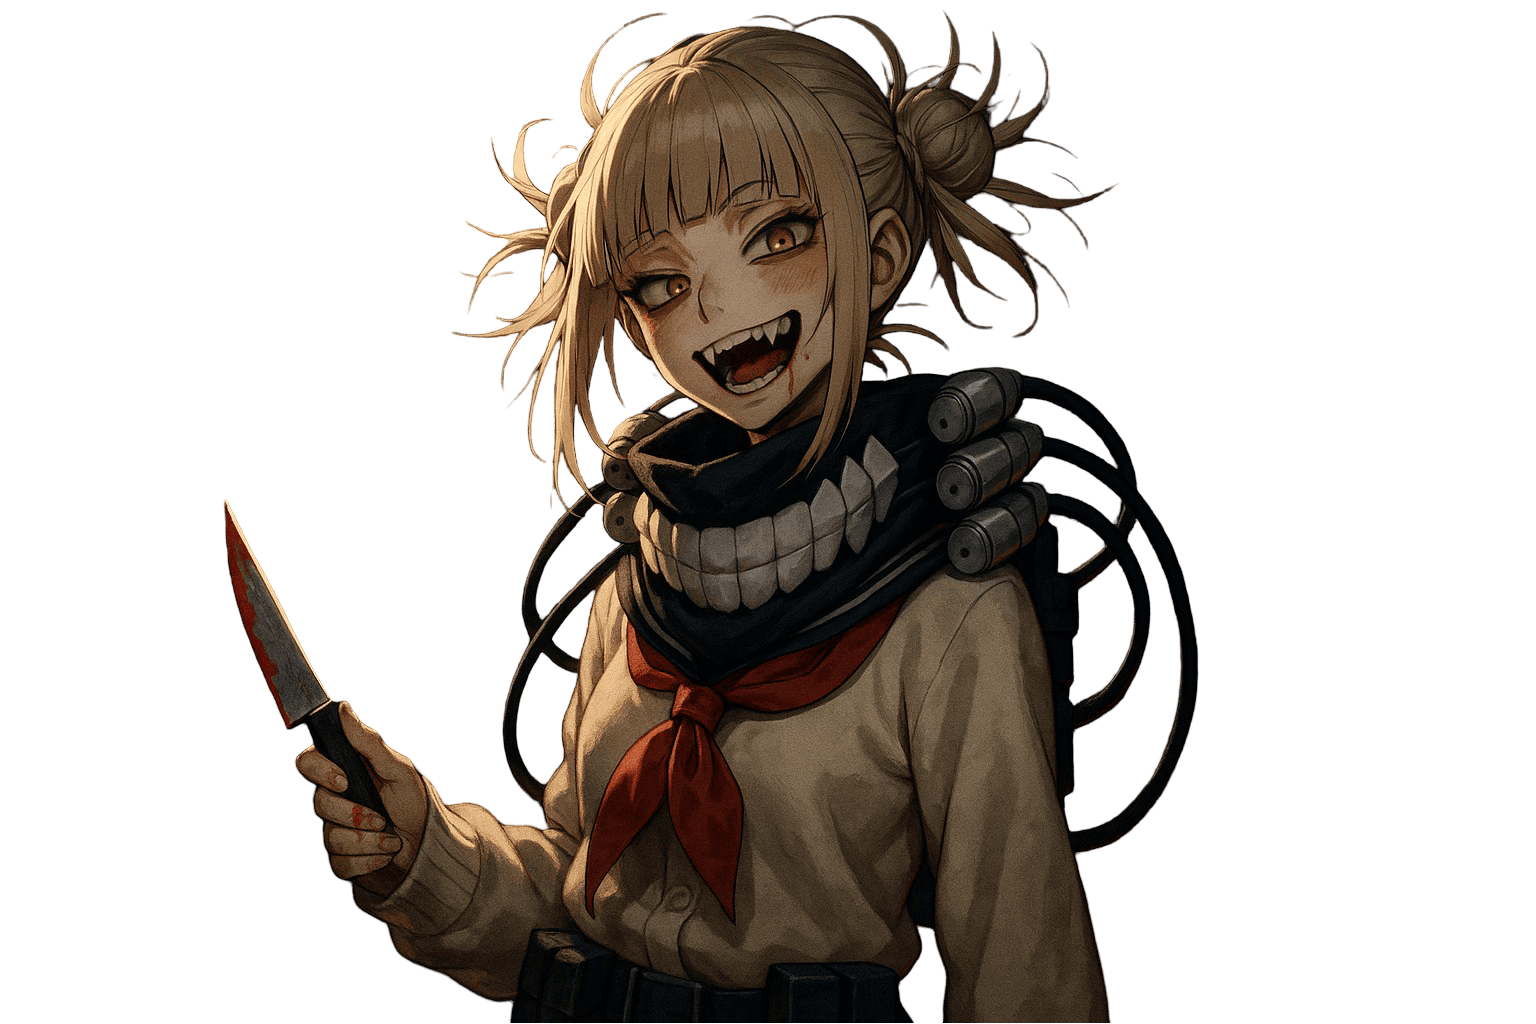
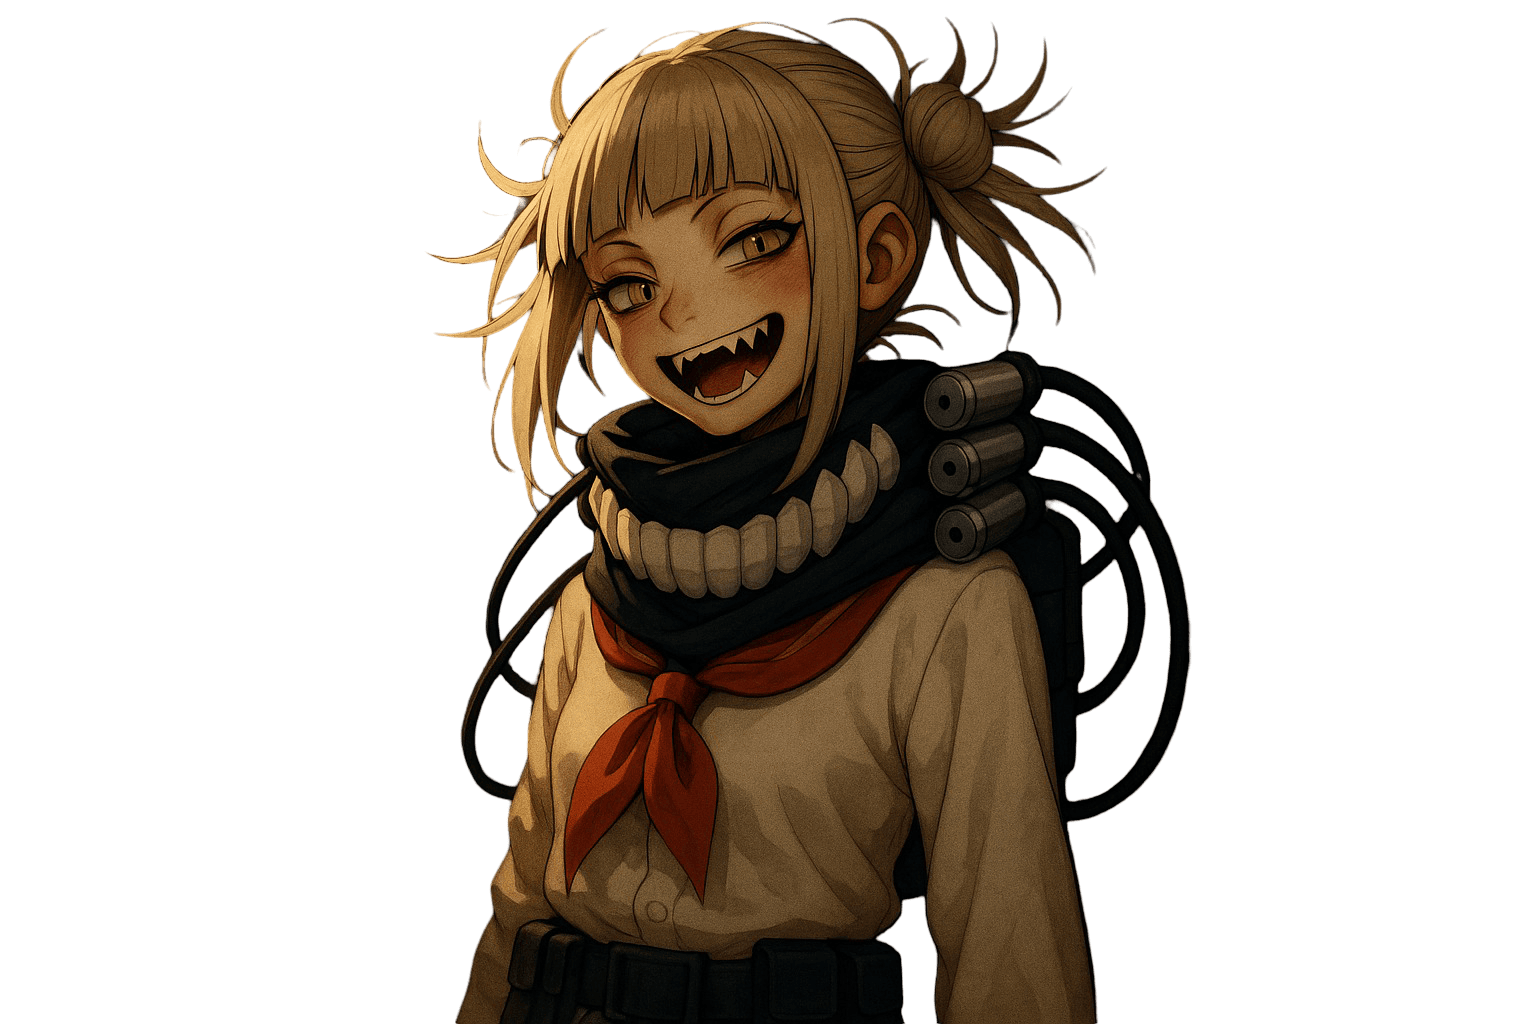
fix: resizing images and make loading a context - v0.0.5

Changed region(s): [[0.125, 0.0, 0.7812, 1.0], [0.375, 0.9688, 0.4062, 1.0]]

diff --git a/src/components/loading/FrameLoading.tsx b/src/components/loading/FrameLoading.tsx
@@ -1,15 +1,12 @@
 "use client";
 
-import styles from "@/styles/loading/FrameLoading.module.scss";
+import { use, useEffect, useRef } from "react";
+import { LoadingContext } from "@/_context/Loading";
 import gsap from "gsap";
-import { useEffect, useRef } from "react";
+import styles from "@/styles/loading/FrameLoading.module.scss";
 
-interface PropsType {
-  handleLoading: (value: boolean) => void;
-}
-
-export default function FrameLoading(props: PropsType) {
-  const { handleLoading } = props;
+export default function FrameLoading() {
+  const { isLoading, setIsLoading } = use(LoadingContext);
   const frameRef = useRef<HTMLDivElement>(null);
   const bgRef = useRef<HTMLDivElement>(null);
   const lineRef = useRef<HTMLDivElement>(null);
@@ -22,7 +19,8 @@ export default function FrameLoading(props: PropsType) {
       !lineRef.current ||
       !frameRef.current ||
       !textRef.current ||
-      !loadingRef.current
+      !loadingRef.current ||
+      !isLoading
     )
       return;
 
@@ -87,11 +85,11 @@ export default function FrameLoading(props: PropsType) {
           visibility: "hidden",
           onStart: () => {
             document.body.style.overflow = "auto";
-            handleLoading(false);
+            setIsLoading(false);
           },
         });
     });
-  }, []);
+  }, [isLoading]);
 
   function getElementBounds(el: Element) {
     const bound = el.getBoundingClientRect();

diff --git a/src/app/layout.tsx b/src/app/layout.tsx
@@ -3,6 +3,7 @@ import { UnifrakturCook, Exo_2 } from "next/font/google";
 import "./globals.scss";
 import MainContainer from "@/components/layout/MainContainer";
 import NavbarProvider from "@/_context/NavbarContext";
+import LoadingProvider from "@/_context/Loading";
 
 const unifracturCook = UnifrakturCook({
   variable: "--font-cook",
@@ -21,7 +22,7 @@ export const metadata: Metadata = {
   description:
     "This is just a project to practice my skills with GSAP. It's not an informative post. If you're interested in the topic, feel free to do your own research.",
   authors: [{ name: "André Siboli", url: "https://github.com/AndreSiboli" }],
-  keywords: 'anime, alter ego, gsap, animation'
+  keywords: "anime, alter ego, gsap, animation",
 };
 
 export default function RootLayout({
@@ -32,9 +33,11 @@ export default function RootLayout({
   return (
     <html lang="en">
       <body className={`${exo_2.className} ${unifracturCook.variable}`}>
-        <NavbarProvider>
-          <MainContainer>{children}</MainContainer>
-        </NavbarProvider>
+        <LoadingProvider>
+          <NavbarProvider>
+            <MainContainer>{children}</MainContainer>
+          </NavbarProvider>
+        </LoadingProvider>
       </body>
     </html>
   );

diff --git a/src/components/pages/home/CollageImages.tsx b/src/components/pages/home/CollageImages.tsx
@@ -5,11 +5,11 @@ import styles from "@/styles/pages/home/CollageImages.module.scss";
 import Img from "@/components/utils/Img";
 
 import cowboy from "@/assets/thumbnails/cowboy.png";
-import hiro from "@/assets/thumbnails/hiro.png";
-import ochaco from "@/assets/thumbnails/ochaco.png";
+import violet from "@/assets/thumbnails/violet.png";
 import ichigo from "@/assets/thumbnails/ichigo.png";
 import thorfinn from "@/assets/thumbnails/thorfinn.png";
 import evagelion from "@/assets/thumbnails/evagelion.png";
+import family from "@/assets/thumbnails/family.png";
 
 gsap.registerPlugin(ScrollTrigger);
 
@@ -21,13 +21,14 @@ export default function CollageImages() {
       style: { objectPosition: "90% center" },
     },
     {
-      src: hiro,
+      src: family,
       alt: "Image from Hiro and Zero Two from Darling In The Franxx",
-      style: { objectPosition: "30% center" },
+      style: { objectPosition: "40% center" },
     },
     {
-      src: ochaco,
-      alt: "Image from Ochaco Uraraka from My Hero Academia",
+      src: violet,
+      alt: "Image from Loid, Yor, and Anya from Spy X Family",
+      style: { objectPosition: "60% center" },
     },
     {
       src: ichigo,

diff --git a/src/app/page.tsx b/src/app/page.tsx
@@ -2,7 +2,6 @@
 
 // import styles from "./page.module.scss";
 import FrameLoading from "@/components/loading/FrameLoading";
-import { useState } from "react";
 import { Lenis } from "lenis/react";
 
 import Hero from "@/components/pages/home/Hero";
@@ -12,13 +11,11 @@ import Answer from "@/components/pages/home/Answer";
 import CollageImages from "@/components/pages/home/CollageImages";
 
 export default function Home() {
-  const [isLoading, setIsLoading] = useState(true);
-
   return (
     <>
-      <FrameLoading handleLoading={setIsLoading}/>
+      <FrameLoading />
       <Lenis root options={{ anchors: true }}>
-        <Hero isLoading={isLoading}/>
+        <Hero />
         <About />
         <Question />
         <Answer />

diff --git a/src/_context/Loading.tsx b/src/_context/Loading.tsx
@@ -1,0 +1,36 @@
+"use client";
+
+import {
+  createContext,
+  Dispatch,
+  ReactNode,
+  SetStateAction,
+  useState,
+} from "react";
+
+interface ContextType {
+  isLoading: boolean;
+  setIsLoading: Dispatch<SetStateAction<boolean>>;
+}
+
+export const LoadingContext = createContext({} as ContextType);
+
+interface ProviderType {
+  children: ReactNode;
+}
+
+export default function LoadingProvider(props: ProviderType) {
+  const { children } = props;
+  const [isLoading, setIsLoading] = useState(true);
+
+  return (
+    <LoadingContext.Provider
+      value={{
+        isLoading,
+        setIsLoading,
+      }}
+    >
+      {children}
+    </LoadingContext.Provider>
+  );
+}

diff --git a/src/components/pages/home/Hero.tsx b/src/components/pages/home/Hero.tsx
@@ -9,13 +9,10 @@ import Image from "next/image";
 import Container from "@/components/layout/Container";
 
 import { LiaExchangeAltSolid } from "react-icons/lia";
+import { LoadingContext } from "@/_context/Loading";
 
-interface PropsType {
-  isLoading: boolean;
-}
-
-export default function Hero(props: PropsType) {
-  const { isLoading } = props;
+export default function Hero() {
+  const { isLoading } = use(LoadingContext);
   const { setNavStyles } = use(NavbarContext);
   const [currCharacter, setCurrCharacter] = useState(characters[0]);
   const [isChanging, setIsChanging] = useState(false);
